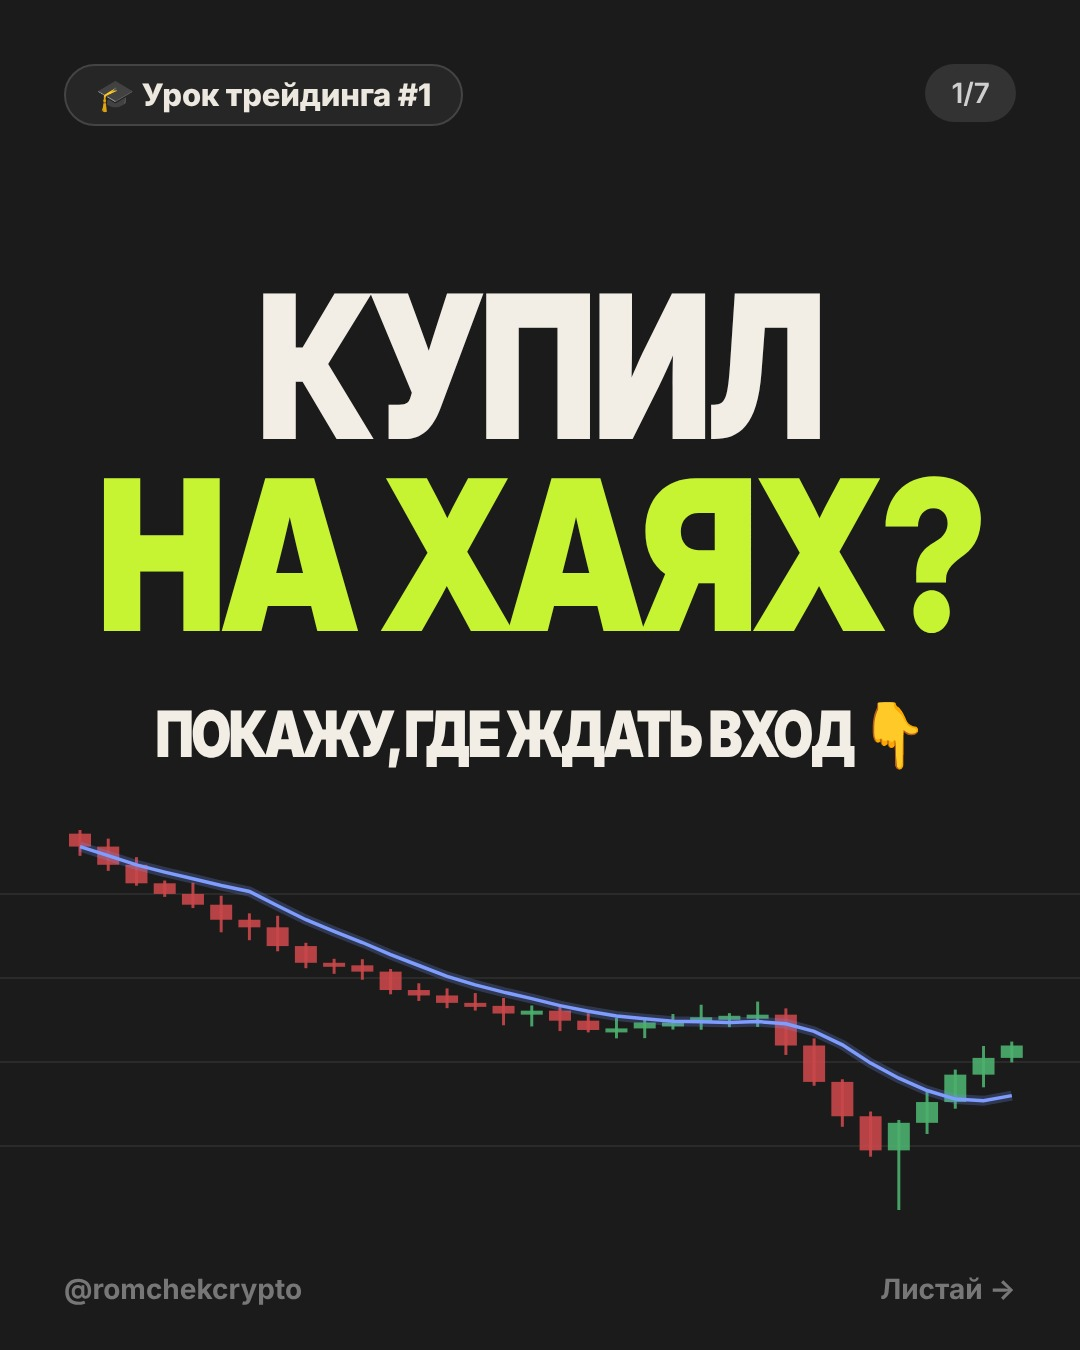
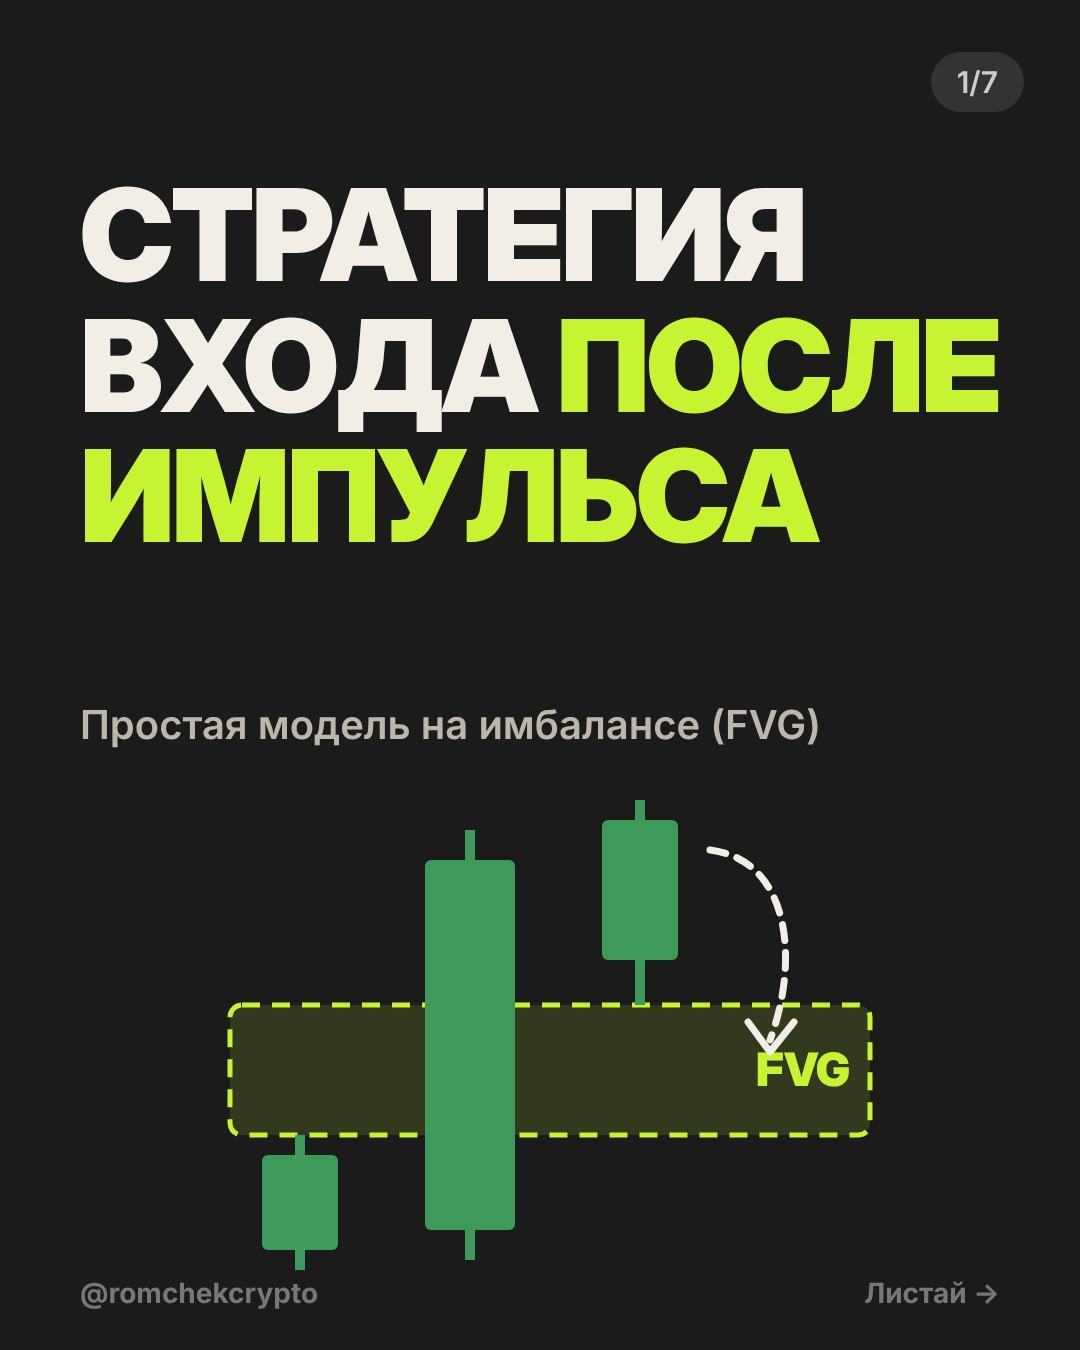
FVG 18:00: owner-approved minimal cover; cover template
Claude-Session: https://claude.ai/code/session_01J5ePgt6e72igxD4CNH1QLb

diff --git a/tools/cover_minimal.html b/tools/cover_minimal.html
@@ -1,0 +1,23 @@
+<!doctype html><html><head><meta charset="utf-8"><style>
+*{margin:0;padding:0;box-sizing:border-box}
+body{width:1080px;height:1350px;background:#1b1b1b;font-family:'Inter Display','Inter',sans-serif;color:#f2eee6;position:relative;overflow:hidden}
+.h{position:absolute;left:80px;right:80px;font-weight:900;letter-spacing:-3px;line-height:1.02}
+.l{color:#c6f432}
+.sub{position:absolute;left:80px;font-family:Inter;font-weight:600;font-size:40px;color:#bdb6aa}
+.cnt{position:absolute;top:52px;right:56px;background:#333;color:#ccc;border-radius:40px;padding:12px 26px;font:600 30px Inter}
+.foot{position:absolute;bottom:40px;left:80px;right:80px;display:flex;justify-content:space-between;font:700 28px Inter;color:#777}
+</style></head><body>
+<div class="cnt">1/7</div>
+<div class="h" style="top:170px;font-size:128px;text-transform:uppercase">/*T*/</div>
+<div class="sub" style="top:/*SUBTOP*/px">/*SUB*/</div>
+<svg style="position:absolute;left:0;top:/*SVGTOP*/px" width="1080" height="500" viewBox="0 0 1080 500">
+ <rect x="230" y="215" width="640" height="130" rx="12" fill="#c6f432" fill-opacity=".14" stroke="#c6f432" stroke-width="5" stroke-dasharray="18 12"/>
+ <text x="850" y="296" text-anchor="end" font-family="Inter Display" font-weight="900" font-size="46" fill="#c6f432">FVG</text>
+ <line x1="300" y1="345" x2="300" y2="480" stroke="#3e9a5a" stroke-width="10"/><rect x="262" y="365" width="76" height="95" rx="6" fill="#3e9a5a"/>
+ <line x1="470" y1="40" x2="470" y2="470" stroke="#3e9a5a" stroke-width="10"/><rect x="425" y="70" width="90" height="370" rx="6" fill="#3e9a5a"/>
+ <line x1="640" y1="10" x2="640" y2="215" stroke="#3e9a5a" stroke-width="10"/><rect x="602" y="30" width="76" height="140" rx="6" fill="#3e9a5a"/>
+ <path d="M710 60 C 790 70, 800 170, 770 250" fill="none" stroke="#f2eee6" stroke-width="7" stroke-dasharray="16 12" stroke-linecap="round"/>
+ <path d="M748 232 L770 262 L794 232" fill="none" stroke="#f2eee6" stroke-width="7" stroke-linecap="round" stroke-linejoin="round"/>
+</svg>
+<div class="foot"><span>@romchekcrypto</span><span>Листай →</span></div>
+</body></html>

diff --git a/growth/PLAYBOOK.md b/growth/PLAYBOOK.md
@@ -63,6 +63,9 @@ sends/shares per reach (IGPO27 ÷ IGPO14) — the #1 signal for non-follower rea
    - ONE accent phrase only (the emotional or concrete part), everything else white.
    - Minimalism: dark background, lots of empty space, ONE simple big visual (2 candles, one chart, a "?" , a person).
      No clutter, no small text on the cover except one subline.
+   - APPROVED by the owner (2026-11-18): posts/2026-11-18-1800-fvg-trade-setup-btc/slide_1.jpg — «СТРАТЕГИЯ ВХОДА
+     ПОСЛЕ ИМПУЛЬСА» + subline, left-aligned 128px uppercase, one lime phrase, one big simple diagram, no tag pill.
+     Template: tools/cover_minimal.html (replace /*T*/, /*SUB*/, positions; draw a correct schematic for the topic).
    - Practical "save & try it" posts (a strategy / model / checklist) get the most sends → do them often.
 9. **Evening covers use proven hook formulas** (from @therea.ai, see below), rotate them:
    - stat claim: "90% трейдеров пропускают лучший вход", "80% психология — 20% стратегия";
